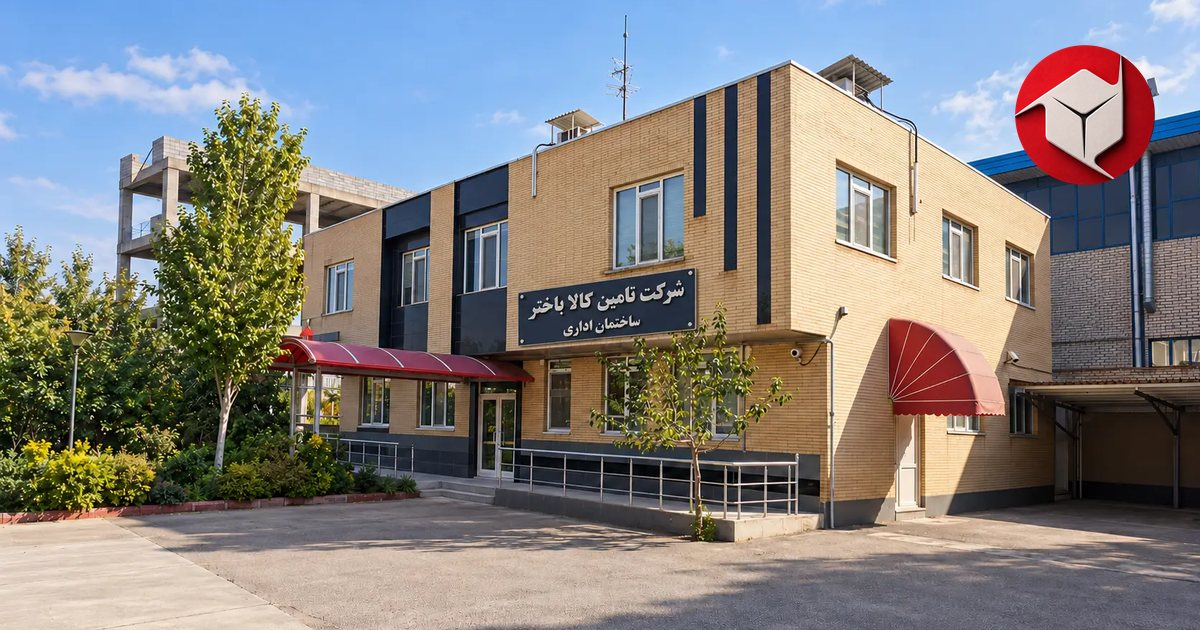
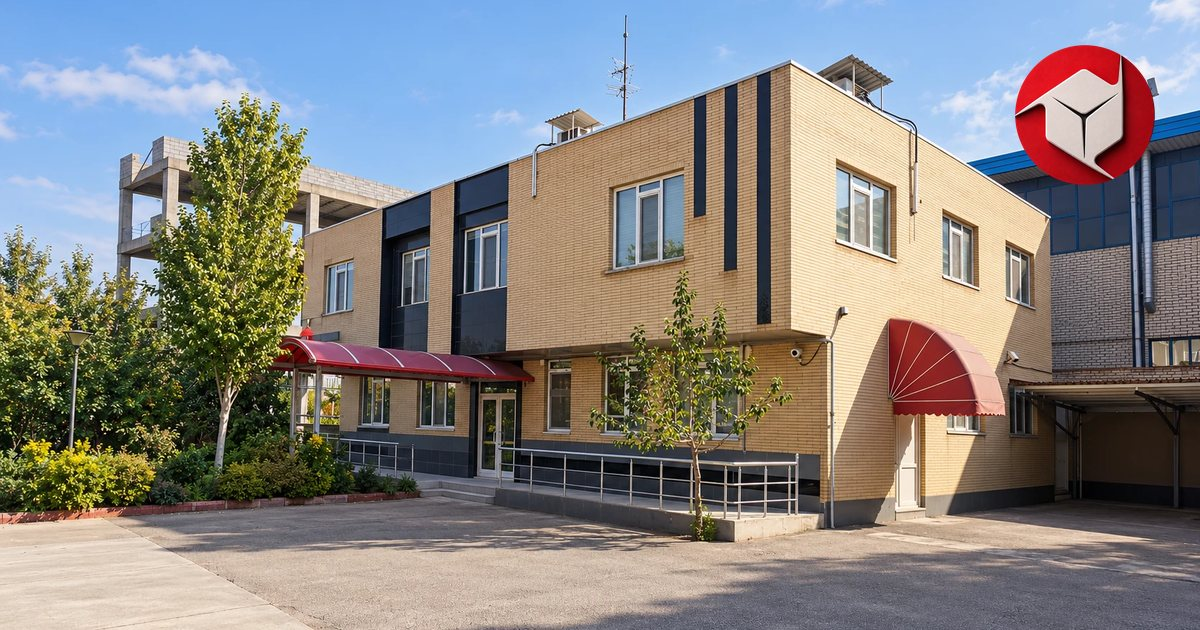
About: administrative building photo without the (not installed) sign
Also regenerates the social preview image from the unsigned photo.

Claude-Session: https://claude.ai/code/session_01Ecdm9YcR4LEscwxWSMxWvk

diff --git a/public/index.html b/public/index.html
@@ -214,7 +214,7 @@
 <section class="section" id="about">
   <div class="wrap about-grid">
     <div class="about-media reveal">
-      <figure class="media has-img"><img src="assets/img/photos/w/office-with-sign-800.webp" srcset="assets/img/photos/w/office-with-sign-480.webp 480w, assets/img/photos/w/office-with-sign-800.webp 800w, assets/img/photos/w/office-with-sign-1200.webp 1200w, assets/img/photos/w/office-with-sign-1600.webp 1600w, assets/img/photos/w/office-with-sign-1672.webp 1672w" sizes="(max-width: 920px) calc(100vw - 32px), 540px" width="1672" height="941" alt="ساختمان اداری شرکت تأمین کالا باختر" style="object-position:50% 55%" loading="lazy" decoding="async"><figcaption class="media-cap">ساختمان اداری</figcaption></figure>
+      <figure class="media has-img"><img src="assets/img/photos/w/office-800.webp" srcset="assets/img/photos/w/office-480.webp 480w, assets/img/photos/w/office-800.webp 800w, assets/img/photos/w/office-1200.webp 1200w, assets/img/photos/w/office-1600.webp 1600w, assets/img/photos/w/office-1672.webp 1672w" sizes="(max-width: 920px) calc(100vw - 32px), 540px" width="1672" height="941" alt="ساختمان اداری شرکت تأمین کالا باختر" style="object-position:50% 55%" loading="lazy" decoding="async"><figcaption class="media-cap">ساختمان اداری</figcaption></figure>
       <figure class="media has-img"><img src="assets/img/photos/w/courtyard-800.webp" srcset="assets/img/photos/w/courtyard-480.webp 480w, assets/img/photos/w/courtyard-800.webp 800w, assets/img/photos/w/courtyard-1200.webp 1200w, assets/img/photos/w/courtyard-1448.webp 1448w" sizes="(max-width: 920px) 50vw, 270px" width="1448" height="1086" alt="محوطه و فضای سبز مجموعه تأمین کالا باختر" style="object-position:50% 60%" loading="lazy" decoding="async"><figcaption class="media-cap">محوطه مجموعه</figcaption></figure>
       <figure class="media has-img"><img src="assets/img/photos/w/warehouse-overview-800.webp" srcset="assets/img/photos/w/warehouse-overview-480.webp 480w, assets/img/photos/w/warehouse-overview-800.webp 800w, assets/img/photos/w/warehouse-overview-1200.webp 1200w, assets/img/photos/w/warehouse-overview-1448.webp 1448w" sizes="(max-width: 920px) 50vw, 270px" width="1448" height="1086" alt="نمای کلی انبار و قفسهبندی شرکت تأمین کالا باختر" style="object-position:50% 50%" loading="lazy" decoding="async"><figcaption class="media-cap">انبار و زیرساخت توزیع</figcaption></figure>
       <div class="about-badge"><b data-count="30" data-suffix="+">۳۰+</b><span>سال همراهی با بازار</span></div>

diff --git a/tools/images.py b/tools/images.py
@@ -39,7 +39,7 @@ def main():
         small.save(ROOT / f"logo-{size}.webp", "WEBP", quality=88, method=6)
         small.save(ROOT / f"logo-{size}.png", optimize=True)
     # social preview 1200x630: office photo with the logo
-    og = Image.open(ROOT / "photos" / "office-with-sign.webp").convert("RGB")
+    og = Image.open(ROOT / "photos" / "office.webp").convert("RGB")
     scale = max(1200 / og.width, 630 / og.height)
     og = og.resize((round(og.width * scale), round(og.height * scale)), Image.LANCZOS)
     left, top = (og.width - 1200) // 2, (og.height - 630) // 2

diff --git a/README.md b/README.md
@@ -123,7 +123,7 @@ sudo taminkala doctor
 | فایل | محل نمایش |
 |---|---|
 | `public/assets/img/photos/fleet.jpg` | عکس اصلی بالای صفحه |
-| `photos/office-with-sign.webp`، `courtyard.webp`، `warehouse-overview.webp` | بخش درباره ما (ساختمان اداری، محوطه، انبار) |
+| `photos/office.webp`، `courtyard.webp`، `warehouse-overview.webp` | بخش درباره ما (ساختمان اداری، محوطه، انبار) |
 | `photos/warehouse-panorama.webp` | پانورامای «زیرساخت» با حرکت هنگام اسکرول |
 | `photos/office-building.webp`، `warehouse-aisles.webp`، `warehouse-variety.webp`، `building.jpg`، `warehouse-homecare.webp`، `warehouse-capacity.webp` | گالری (`#gallery`) با نمایش کامل در پنجره |
 | `public/assets/img/brands/*.jpg` | ویترین برندها (هر نسبتی؛ بدون برش) |
